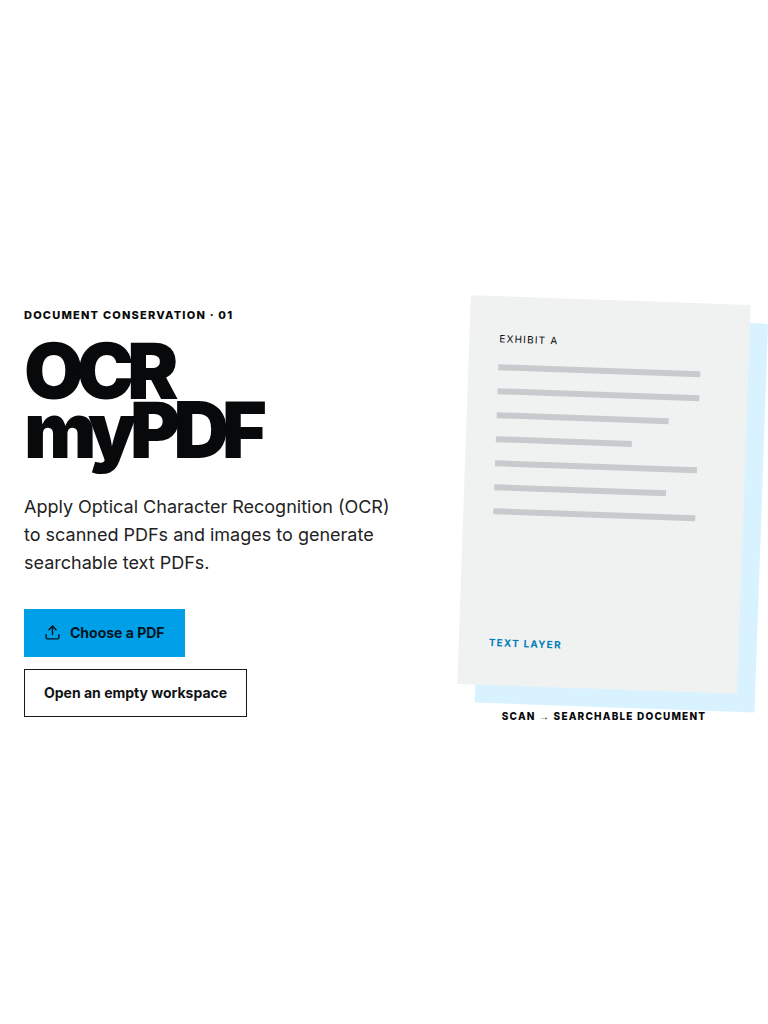
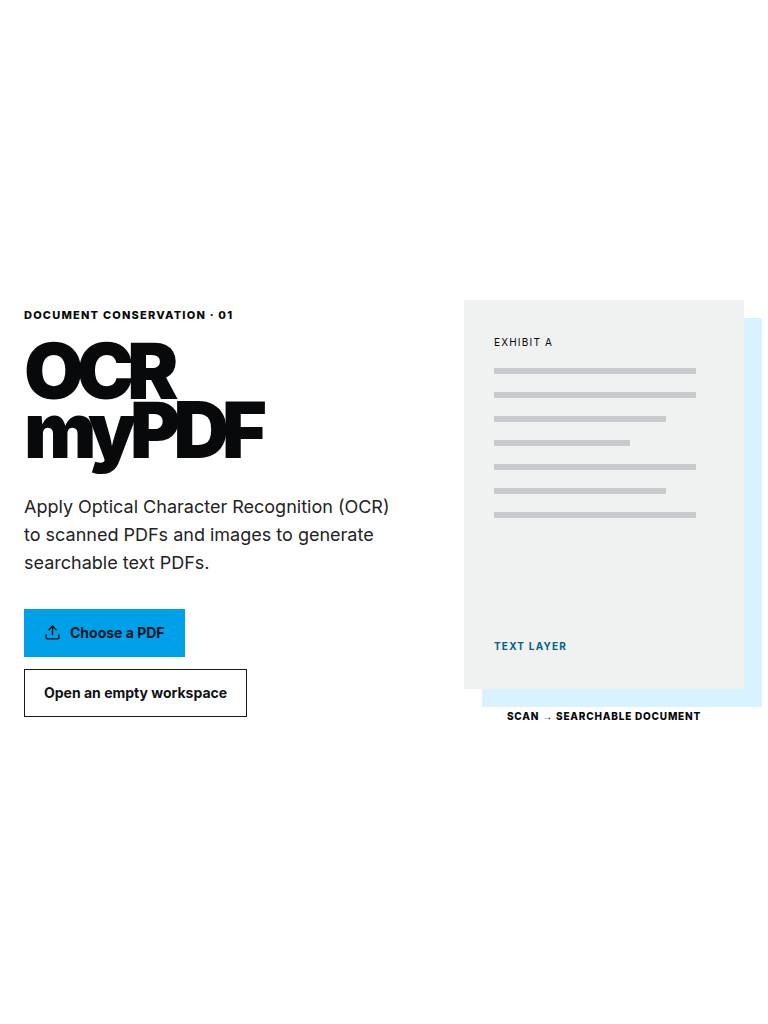
Remove OCR hero overflow at tablet width

diff --git a/frontend/src/sites/ocrmypdf/ocrmypdf.css b/frontend/src/sites/ocrmypdf/ocrmypdf.css
@@ -38,3 +38,7 @@
 .om-gate .dep-gate__scroll + p { margin-top:3px !important; }
 .om-gate .dep-gate > div:last-child { margin-top:4px !important; }
 @media(max-width:700px) { .om-gates { grid-template-columns:1fr; max-height:43vh; padding:6px 10px; } .om-gate>span { margin-bottom:2px; } }
+.om-hero__exhibit { min-width:0; max-width:100%; }
+.om-exhibit-caption { max-width:100%; text-align:center; letter-spacing:.08em; }
+.om-exhibit-caption { display:block; width:100%; overflow-wrap:anywhere; }
+@media (min-width:701px) and (max-width:820px) { .om-paper { transform:none; } }
